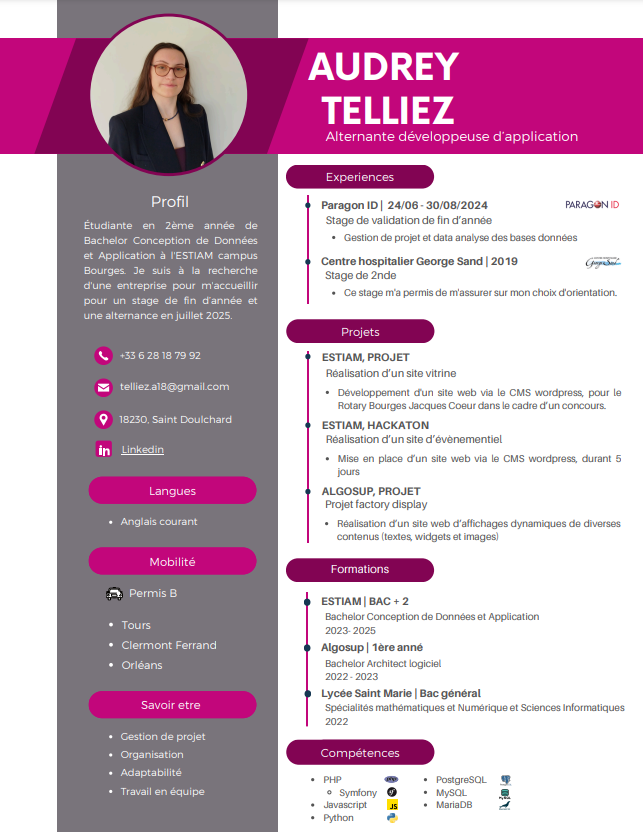
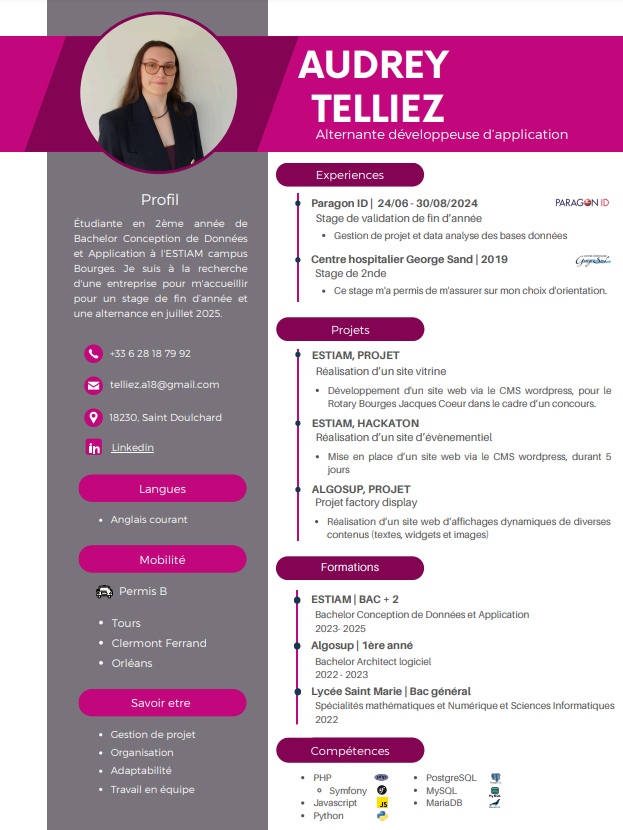
update css & container

diff --git a/src/App.js b/src/App.js
@@ -43,8 +43,10 @@ function App() {
     <Timeline champ={expperience} titre="Mon experiences" lien="mes-experiences" />
     
 
-    <Image_gauche titre="Mes passes temps" soustitre="sous titre" message="message_header" image={projet} lien="passe-temp" />
-    <Image_droite titre="" soustitre="sous titre" message="message_header" image={lecture} lien=""/>
+    <Image_droite titre="Mes passes temps" soustitre="Mes passions" 
+    message="J’adore lire des romans, faire de la photographie et voyager.Lire me permet de m’évader dans des histoires captivantes et d’explorer d’autres mondes. C’est une façon de rêver et d’apprendre en même temps.Avec la photographie, j’aime capturer des instants uniques, comme un paysage ou un sourire. Ça me pousse à voir la beauté dans les détails et à garder des souvenirs précieux.Enfin, voyager me permet de découvrir de nouveaux endroits, de rencontrer des gens différents et de vivre des expériences inoubliables. Chaque voyage me fait grandir.Ces passions enrichissent ma vie et me rappellent la beauté du monde." 
+    image={lecture} lien="passe-temp" />
+    <Image_gauche titre="" soustitre="sous titre" message="message_header" image={projet} lien=""/>
 
     <Timeline champ={formation} titre="Mes formations" lien="mes-formations" />
 

diff --git a/src/App.css b/src/App.css
@@ -5,7 +5,9 @@
   #545454
 */
 /**/
-
+p{
+  text-align: justify;
+}
 section{
   margin: 20px 40px 20px 40px;
 }
@@ -171,6 +173,9 @@ progress[value]::-webkit-progress-value {
   display: flex;
   flex-direction: row;
   flex-wrap: nowrap;
+  width:900px;
+  margin:auto;
+  position:relative;
 }
 
 #containers > div{
@@ -193,10 +198,15 @@ progress[value]::-webkit-progress-value {
   display: flex;
   flex-direction: row;
   flex-wrap: nowrap;
+  width:900px;
+  margin:auto;
+  position:relative;
+
 }
 
 #colum-image{
   text-align: center;
+  margin-top: 10px;
 }
 
 .flex-container > div {
@@ -290,8 +300,13 @@ ul.tl li .timestamp{
 
 .footer{
   background-color: #820453;
-  color: white;
-  padding: 20px;
-  text-align: center;
+  padding: 10px;
+  width:100%;
+  margin:auto;
+  position:relative;
 }
 
+.footer > p{
+  text-align: center;
+  color: white;
+}
